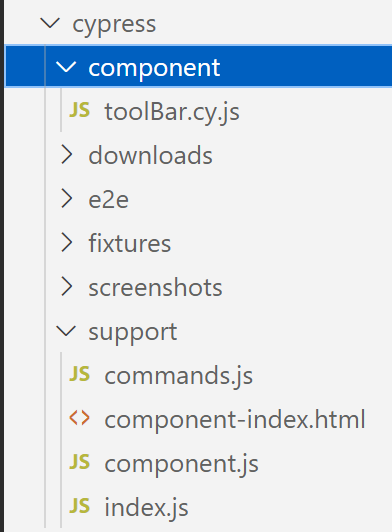
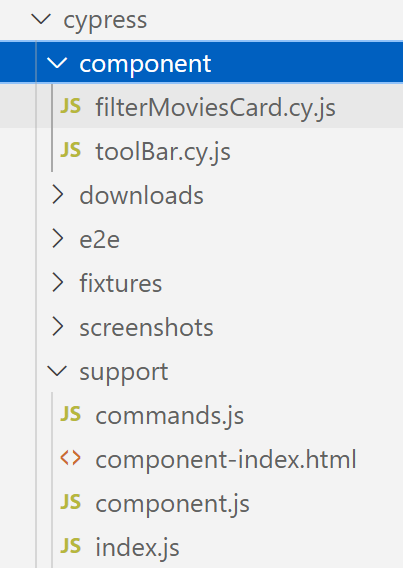
Update README

Changed region(s): [[0.0, 0.0, 1.0, 1.0]]

diff --git a/README.md b/README.md
@@ -139,7 +139,7 @@ This repository contains the implementation of a React App, its associated Cypre
 
 ## React App Features.
 
-See above in README of WAD2 assignment.
+See above in description of WAD2 assignment.
 
 ## Automated Tests.
 
@@ -190,6 +190,10 @@ __User profile__
 3. Try to reset password with invalid email.
 + cypress/e2e/auth.cy.js
 
+1. Try to filter movies with invalid rating range.
+2. Try to filter movies with invalid release date range.
++ cypress/component/filterMoviesCard.cy.js
+
 ### Cypress Custom commands (if relevant).
 
 + cypress/e2e/auth.cy.js
@@ -207,6 +211,12 @@ __ToolBar component__
 4. The users can sort movie list by selecting sorting options.
 + cypress/component/toolBar.cy.js
 
+__FilterMoviesCard component__
+1. The component renders filtering options.
+2. The users can filter with rating.
+3. The users can filter with release date.
++ cypress/component/filterMoviesCard.cy.js
+
 ## Code Splitting.
 
 [Specify the pathname of each source code file that contains evidence of code splitting in your React app.]
@@ -218,15 +228,31 @@ e.g.
 
 ## Pull Requests.
 
-[ Specify the URL of the GitHub repository that contains a record of the Pull Requests made during this assignment's code (source code or test code). If you used GitLab Merge Requests instead, then simply state this.]
+https://github.com/lyw02/agile-software-practice-assignment1
 
 ## Independent learning (If relevant).
 
+__Cypress Custom Commands__
+
+I created Cypress Custom Commands in the support file.
+
++ cypress/support/component.js
++ cypress/e2e/auth.cy.js
++ cypress/e2e/userProfile.cy.js
++ cypress/e2e/actorDetails.cy.js
++ cypress/e2e/search.cy.js
++ cypress/e2e/sorting.cy.js
+
+![](./public/readme_fig2.png)
+
+Reference: https://docs.cypress.io/api/cypress-api/custom-commands#Syntax
+
 __Cypress Component Testing__
 
-I created a Cypress Component Testing for ToolBar component.
+I created Cypress Component Testing cases for ToolBar and FilterMoviesCard component, along with relevant config and support files.
 
 + cypress/component/toolBar.cy.js
++ cypress/component/filterMoviesCard.cy.js
 + cypress/support/component.js
 + cypress/support/component-index.html
 + src/cypress.config.js
@@ -234,7 +260,3 @@ I created a Cypress Component Testing for ToolBar component.
 ![](./public/readme_fig1.png)
 
 Reference: https://docs.cypress.io/guides/component-testing/react/overview
-
-
-
-State any other evidence of independent learning achieved while completing this assignment.
